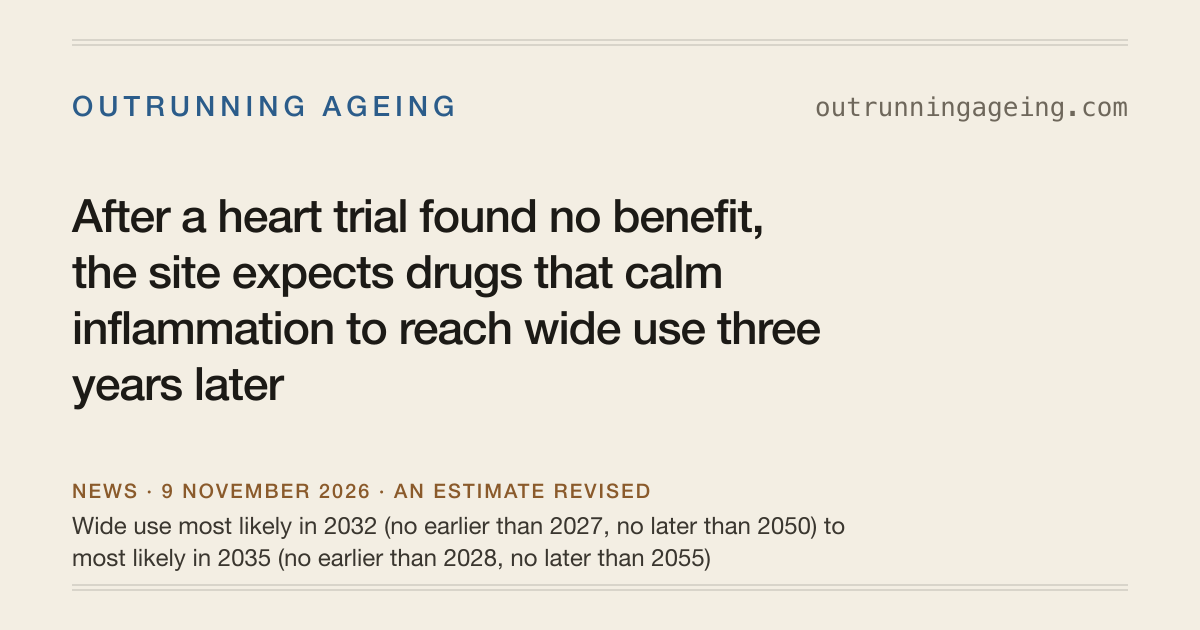
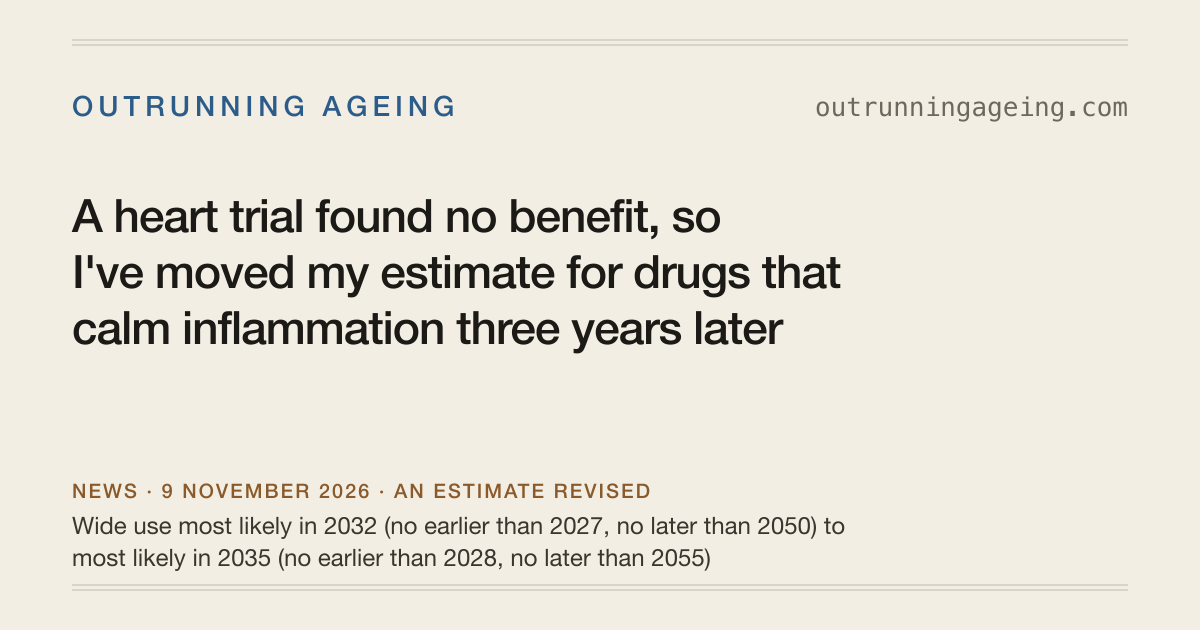
2026-11-09: John's edits to the ZEUS draft: title in his voice with the news first, the site no longer its own agent, prose dates in his month-first style; card redrawn

Changed region(s): [[0.0617, 0.3016, 0.7092, 0.6635]]

diff --git a/site/src/content/news/2026-11-09-zeus-moves-heart-estimate-later.md b/site/src/content/news/2026-11-09-zeus-moves-heart-estimate-later.md
@@ -1,30 +1,30 @@
 ---
-title: After a heart trial found no benefit, the site expects drugs that calm inflammation to reach wide use three years later
+title: A heart trial found no benefit, so I've moved my estimate for drugs that calm inflammation three years later
 date: 2026-11-09
 kind: estimate-revised
-summary: On 7 November 2026 the full results of ZEUS, the biggest test in years of whether calming inflammation prevents heart attacks, found no benefit. On 9 November I moved the site's estimate for when such drugs are in wide use from 2032 to 2035.
+summary: On November 7th, 2026, the full results of ZEUS, the biggest test in years of whether calming inflammation prevents heart attacks, found no benefit. On November 9th I moved my estimate for when such drugs are in wide use from 2032 to 2035.
 records: [an-anti-inflammatory-drug-is-approved-to-prevent-heart-attacks]
 reading: 2026-11-09
 before: "Wide use most likely in 2032 (no earlier than 2027, no later than 2050)"
 after: "most likely in 2035 (no earlier than 2028, no later than 2055)"
 sources:
-  - label: Ridker and others, the full ZEUS report, New England Journal of Medicine, 7 November 2026
+  - label: Ridker and others, the full ZEUS report, New England Journal of Medicine, November 7th, 2026
     url: https://doi.org/10.1056/NEJMoa2612126
-  - label: American College of Cardiology, its report of the ZEUS presentation, 7 November 2026
+  - label: American College of Cardiology, its report of the ZEUS presentation, November 7th, 2026
     url: https://www.acc.org/latest-in-cardiology/articles/2026/11/06/14/37/sat-935am-zeus-aha-2026
-  - label: Mass General Brigham, its release on the ZEUS results, 7 November 2026
+  - label: Mass General Brigham, its release on the ZEUS results, November 7th, 2026
     url: https://www.eurekalert.org/news-releases/1150801
-  - label: Novo Nordisk, its announcement of the ZEUS top-line result, 31 July 2026
+  - label: Novo Nordisk, its announcement of the ZEUS top-line result, July 31st, 2026
     url: https://www.novonordisk.com/news-and-media/news-and-ir-materials/news-details.html?id=916587
 ---
 
 Can calming inflammation protect the heart? Inflammation is how the body reacts to injury, and in many older people a low level of it never quite switches off. For decades doctors have suspected that this smouldering inflammation helps cause heart attacks and strokes, quite apart from cholesterol or blood pressure. If they are right, a drug that damps it down should prevent some of them. This site follows that question as [one of the treatments](/leaves/an-anti-inflammatory-drug-is-approved-to-prevent-heart-attacks/) that would have to reach ordinary patients before medicine can start outrunning ageing.
 
-There is already one answer, and it is a cheap one. [Colchicine](https://en.wikipedia.org/wiki/Colchicine), an old pill for gout, cut heart attacks and strokes by about a third in a trial of 5,522 people reported in 2020, and the United States regulator [approved it for that purpose](https://www.accessdata.fda.gov/drugsatfda_docs/nda/2024/215727Orig1s000Approv.pdf) in June 2023. So the site already counts the treatment as in use with patients. What it still waits for is the next step: the drug prescribed for this purpose, in several countries, to a good share of the people it could help.
+There is already one answer, and it is a cheap one. [Colchicine](https://en.wikipedia.org/wiki/Colchicine), an old pill for gout, cut heart attacks and strokes by about a third in a trial of 5,522 people reported in 2020, and the United States regulator [approved it for that purpose](https://www.accessdata.fda.gov/drugsatfda_docs/nda/2024/215727Orig1s000Approv.pdf) in June 2023. So I already count the treatment as in use with patients. What I'm still waiting for is the next step: the drug prescribed for this purpose, in several countries, to a good share of the people it could help.
 
 ## A trial that found nothing
 
-The newest test came back on 7 November 2026. The [ZEUS trial](https://clinicaltrials.gov/study/NCT05021835), run by the drug maker [Novo Nordisk](https://www.novonordisk.com/), gave 6,376 people either a monthly injection of [ziltivekimab](https://en.wikipedia.org/wiki/Ziltivekimab), an antibody drug that blocks one of the body's inflammation signals, or a dummy injection. Everyone in it already had hardened arteries, weak kidneys and signs of inflammation in the blood. After a little under three years, a heart attack, a stroke or a death from heart disease had happened to 17.6 per cent of those on the drug and 17.7 per cent of those on the dummy ([the American College of Cardiology's report](https://www.acc.org/latest-in-cardiology/articles/2026/11/06/14/37/sat-935am-zeus-aha-2026)). The drug did lower inflammation in the blood. It just did not prevent the events. The results were presented at the [American Heart Association](https://www.heart.org/)'s yearly meeting and [published the same day](https://doi.org/10.1056/NEJMoa2612126) in the New England Journal of Medicine, confirming what the company had [announced in July](https://www.novonordisk.com/news-and-media/news-and-ir-materials/news-details.html?id=916587).
+The newest test came back on November 7th, 2026. The [ZEUS trial](https://clinicaltrials.gov/study/NCT05021835), run by the drug maker [Novo Nordisk](https://www.novonordisk.com/), gave 6,376 people either a monthly injection of [ziltivekimab](https://en.wikipedia.org/wiki/Ziltivekimab), an antibody drug that blocks one of the body's inflammation signals, or a dummy injection. Everyone in it already had hardened arteries, weak kidneys and signs of inflammation in the blood. After a little under three years, a heart attack, a stroke or a death from heart disease had happened to 17.6 per cent of those on the drug and 17.7 per cent of those on the dummy ([the American College of Cardiology's report](https://www.acc.org/latest-in-cardiology/articles/2026/11/06/14/37/sat-935am-zeus-aha-2026)). The drug did lower inflammation in the blood. It just did not prevent the events. The results were presented at the [American Heart Association](https://www.heart.org/)'s yearly meeting and [published the same day](https://doi.org/10.1056/NEJMoa2612126) in the New England Journal of Medicine, confirming what the company had [announced in July](https://www.novonordisk.com/news-and-media/news-and-ir-materials/news-details.html?id=916587).
 
 The trial's leader, the heart researcher [Paul Ridker](https://en.wikipedia.org/wiki/Paul_M._Ridker), does not read this as the end of the idea. In [his hospital's release](https://www.eurekalert.org/news-releases/1150801) he points out that the people in ZEUS were about ten years older and sicker than in an earlier trial where a similar drug did work, so their disease may have gone too far for any drug to turn back. He also says colchicine, which is proven, is not being prescribed as often as it should be.
 
@@ -32,6 +32,6 @@ The trial's leader, the heart researcher [Paul Ridker](https://en.wikipedia.org/
 
 When I first set the estimate, in October 2026, I expected drugs like this to be in wide use most likely by 2032. Part of that rested on a second, newer drug arriving and pushing the whole approach into everyday care, and ziltivekimab was the most likely candidate. It is still being tested in heart failure and just after a heart attack, but those results are not expected until 2027 ([the company's announcement](https://www.novonordisk.com/news-and-media/news-and-ir-materials/news-details.html?id=916587)), so an approval for preventing heart attacks is years away at best.
 
-It is also the second disappointment in two years: a large colchicine trial in people who had just had a heart attack found no benefit in 2025 ([the treatment's page](/leaves/an-anti-inflammatory-drug-is-approved-to-prevent-heart-attacks/) has both). That leaves wide use resting on colchicine alone, a drug its own advocates say is under-used. So on 9 November 2026 I moved the most likely year for wide use from 2032 to 2035, the earliest from 2027 to 2028, and the latest from 2050 to 2055 ([the reasons, on the treatment's page](/leaves/an-anti-inflammatory-drug-is-approved-to-prevent-heart-attacks/)).
+It is also the second disappointment in two years: a large colchicine trial in people who had just had a heart attack found no benefit in 2025 ([the treatment's page](/leaves/an-anti-inflammatory-drug-is-approved-to-prevent-heart-attacks/) has both). That leaves wide use resting on colchicine alone, a drug its own advocates say is under-used. So on November 9th, 2026, I moved the most likely year for wide use from 2032 to 2035, the earliest from 2027 to 2028, and the latest from 2050 to 2055 ([the reasons, on the treatment's page](/leaves/an-anti-inflammatory-drug-is-approved-to-prevent-heart-attacks/)).
 
-The site's main estimate, the year medicine starts outrunning ageing, counts a treatment from the year it first reaches patients, which for colchicine was 2023, so this change does not touch it ([how the year is worked out](/about/#method)).
+The main estimate on the site, the year medicine starts outrunning ageing, is worked out from the year a treatment first reaches patients, which for colchicine was 2023, so this change does not touch it ([how the year is worked out](/about/#method)).

diff --git a/docs/news-checks/2026-11-09-zeus-moves-heart-estimate-later.md b/docs/news-checks/2026-11-09-zeus-moves-heart-estimate-later.md
@@ -63,7 +63,7 @@ described and not named, so it carries no link.
   explained in plain words in the second paragraph.
 - "Antibody" glossed as "an antibody drug that blocks one of the body's inflammation signals";
   "inflammation" glossed in the first paragraph; "placebo" said as "a dummy injection".
-- Every date says what happened on it: 7 November 2026 for the results; 9 November 2026 for the site's
+- Every date says what happened on it: November 7th, 2026 for the results; November 9th, 2026 for the site's
   move; July for the company announcement; 2027 for the trials still running.
 - The title names the site's change, not the trial as news. Rule 4.19: the post opens on the human
   question ("Can calming inflammation protect the heart?"), then the result, then why it matters. The
@@ -83,3 +83,12 @@ described and not named, so it carries no link.
 - Coinage budget: none. Closed loop: the body's links are mostly outside the site (the trial registry,
   the paper, the reports, Wikipedia); the treatment's page is linked for the reasons.
 - Genre: a short news story with its sources in the sentences; nothing reads as promotion.
+
+## John's edits (2026-11-09)
+
+- The title and two sentences no longer make the site its own agent ("the site expects", "the site
+  already counts", "what it still waits for"). John: it "makes the site its own agent, which is not
+  the goal of the project". The title is now in his voice, with the news first: "A heart trial found
+  no benefit, so I've moved my estimate for drugs that calm inflammation three years later".
+- Dates in the post's prose and source labels are spelled "November 7th, 2026", John's rule for
+  public prose (2026-10-21).
